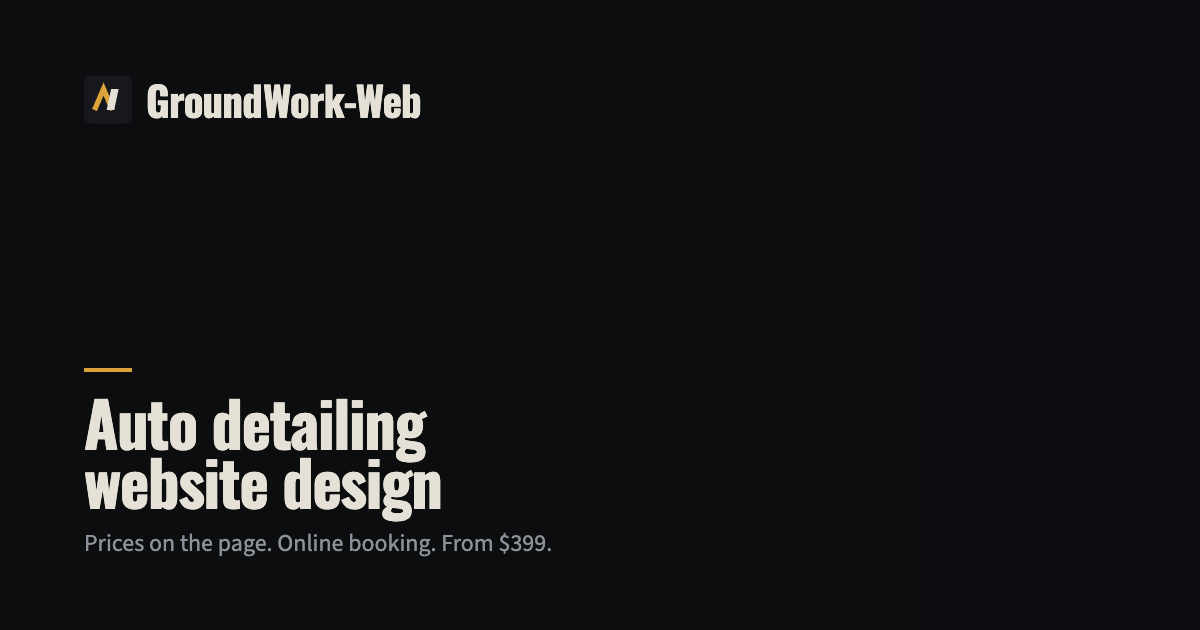
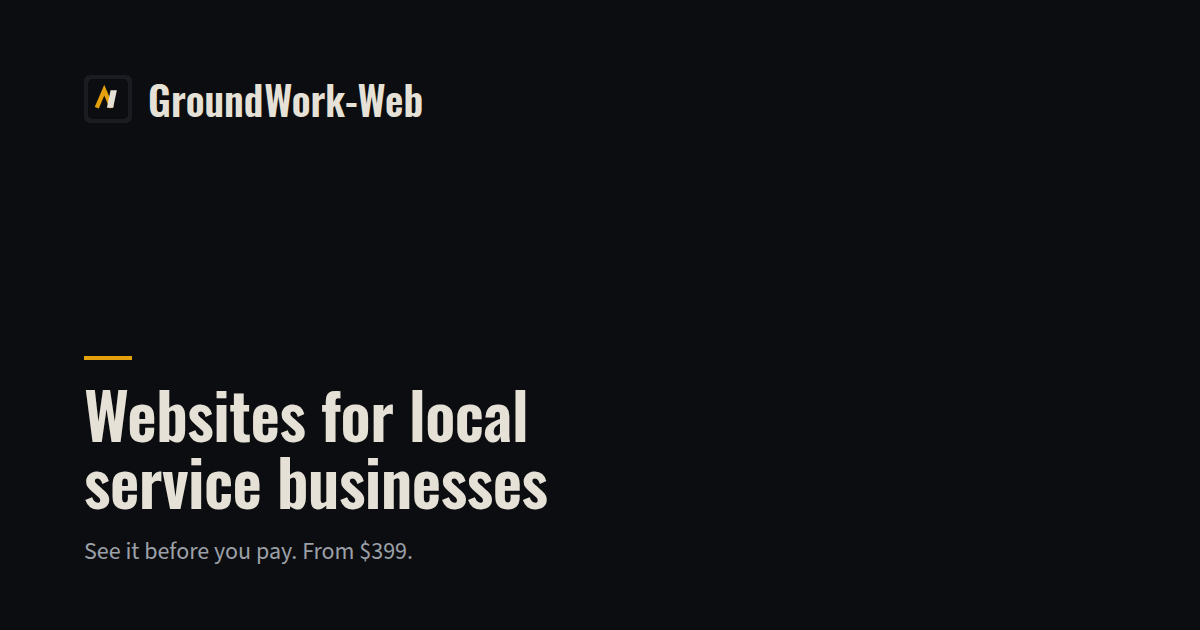
Broad social preview image and alt text for the main site
og.png said "Auto detailing website design"; it now reads "Websites for
local service businesses / See it before you pay. From $399." in the same
type and colors, and the og:image:alt on the ten main-host pages matches.

Claude-Session: https://claude.ai/code/session_01NHSg1PVT6B4hNMFgMoFF6L

Changed region(s): [[0.0617, 0.5429, 0.4625, 0.9048], [0.1233, 0.1206, 0.37, 0.2111], [0.0617, 0.1206, 0.0925, 0.181]]

diff --git a/public/before-you-pay/index.html b/public/before-you-pay/index.html
@@ -23,7 +23,7 @@
 <meta property="og:image" content="https://groundwork-web.com/assets/og.png">
 <meta property="og:image:width" content="1200">
 <meta property="og:image:height" content="630">
-<meta property="og:image:alt" content="GroundWork-Web: websites that get detailers booked">
+<meta property="og:image:alt" content="GroundWork-Web: websites for local service businesses. See it before you pay, from $399.">
 <meta name="twitter:card" content="summary_large_image">
 <meta name="twitter:title" content="See Your Site Before the Monthly Starts | GroundWork-Web">
 <meta name="twitter:description" content="Pay $99, see a private preview, and approve before anything goes live. Don't want it? The $99 comes back. The $300 and the monthly plan start when you approve.">

diff --git a/public/demos/index.html b/public/demos/index.html
@@ -23,7 +23,7 @@
 <meta property="og:image" content="https://groundwork-web.com/assets/og.png">
 <meta property="og:image:width" content="1200">
 <meta property="og:image:height" content="630">
-<meta property="og:image:alt" content="GroundWork-Web: websites that get detailers booked">
+<meta property="og:image:alt" content="GroundWork-Web: websites for local service businesses. See it before you pay, from $399.">
 <meta name="twitter:card" content="summary_large_image">
 <meta name="twitter:title" content="Auto Detailing Website Examples | GroundWork-Web">
 <meta name="twitter:description" content="Four working demo sites for detailers: a ceramic shop, a mobile detailer, a before-and-after paint slider, and a package builder. Fictional shops, real sites.">

diff --git a/public/audit/index.html b/public/audit/index.html
@@ -23,7 +23,7 @@
 <meta property="og:image" content="https://groundwork-web.com/assets/og.png">
 <meta property="og:image:width" content="1200">
 <meta property="og:image:height" content="630">
-<meta property="og:image:alt" content="GroundWork-Web: websites that get detailers booked">
+<meta property="og:image:alt" content="GroundWork-Web: websites for local service businesses. See it before you pay, from $399.">
 <meta name="twitter:card" content="summary_large_image">
 <meta name="twitter:title" content="Free Detailing Website Audit, 15 Minutes | GroundWork-Web">
 <meta name="twitter:description" content="Book a free 15-minute audit. We pull up your Google listing, socials, and site, and tell you plainly what is costing you bookings. No pitch deck.">

diff --git a/public/guides/get-found-on-google/index.html b/public/guides/get-found-on-google/index.html
@@ -23,7 +23,7 @@
 <meta property="og:image" content="https://groundwork-web.com/assets/og.png">
 <meta property="og:image:width" content="1200">
 <meta property="og:image:height" content="630">
-<meta property="og:image:alt" content="GroundWork-Web: websites that get detailers booked">
+<meta property="og:image:alt" content="GroundWork-Web: websites for local service businesses. See it before you pay, from $399.">
 <meta name="twitter:card" content="summary_large_image">
 <meta name="twitter:title" content="How Detailers Show Up for Detailing Near Me | GroundWork-Web">
 <meta name="twitter:description" content="A detailer's checklist for ranking on Google: Business Profile setup, the pages your site needs, prices, photos, reviews and schema. No fluff.">

diff --git a/public/pricing/index.html b/public/pricing/index.html
@@ -23,7 +23,7 @@
 <meta property="og:image" content="https://groundwork-web.com/assets/og.png">
 <meta property="og:image:width" content="1200">
 <meta property="og:image:height" content="630">
-<meta property="og:image:alt" content="GroundWork-Web: websites that get detailers booked">
+<meta property="og:image:alt" content="GroundWork-Web: websites for local service businesses. See it before you pay, from $399.">
 <meta name="twitter:card" content="summary_large_image">
 <meta name="twitter:title" content="What a Website Costs | GroundWork-Web">
 <meta name="twitter:description" content="What a website costs: $99 today, $300 when you approve, $399 total. Then $99 a month to keep it up, or $199 if we also update it. Deer Park, Texas.">

diff --git a/public/privacy/index.html b/public/privacy/index.html
@@ -23,7 +23,7 @@
 <meta property="og:image" content="https://groundwork-web.com/assets/og.png">
 <meta property="og:image:width" content="1200">
 <meta property="og:image:height" content="630">
-<meta property="og:image:alt" content="GroundWork-Web: websites that get detailers booked">
+<meta property="og:image:alt" content="GroundWork-Web: websites for local service businesses. See it before you pay, from $399.">
 <meta name="twitter:card" content="summary_large_image">
 <meta name="twitter:title" content="Privacy | GroundWork-Web">
 <meta name="twitter:description" content="What GroundWork-Web collects on this site, why, and how to opt out. Plain English, no cookies, nothing stored in your browser, no third-party trackers.">

diff --git a/public/start/index.html b/public/start/index.html
@@ -24,7 +24,7 @@
 <meta property="og:image" content="https://groundwork-web.com/assets/og.png">
 <meta property="og:image:width" content="1200">
 <meta property="og:image:height" content="630">
-<meta property="og:image:alt" content="GroundWork-Web: websites that get detailers booked">
+<meta property="og:image:alt" content="GroundWork-Web: websites for local service businesses. See it before you pay, from $399.">
 <meta name="twitter:card" content="summary_large_image">
 <meta name="twitter:title" content="Start Your Detailing Website for $99 | GroundWork-Web">
 <meta name="twitter:description" content="Tell us about your shop, pick Host or Grow, then a secure Stripe checkout for $99. We start this week.">

diff --git a/public/offer/index.html b/public/offer/index.html
@@ -23,7 +23,7 @@
 <meta property="og:image" content="https://groundwork-web.com/assets/og.png">
 <meta property="og:image:width" content="1200">
 <meta property="og:image:height" content="630">
-<meta property="og:image:alt" content="GroundWork-Web: websites that get detailers booked">
+<meta property="og:image:alt" content="GroundWork-Web: websites for local service businesses. See it before you pay, from $399.">
 <meta name="twitter:card" content="summary_large_image">
 <meta name="twitter:title" content="The Detailing Website Offer | GroundWork-Web">
 <meta name="twitter:description" content="A detailing website with prices and booking. $99 today, $300 when you approve, then $99 or $199 a month.">

diff --git a/public/404.html b/public/404.html
@@ -24,7 +24,7 @@
 <meta property="og:image" content="https://groundwork-web.com/assets/og.png">
 <meta property="og:image:width" content="1200">
 <meta property="og:image:height" content="630">
-<meta property="og:image:alt" content="GroundWork-Web: websites that get detailers booked">
+<meta property="og:image:alt" content="GroundWork-Web: websites for local service businesses. See it before you pay, from $399.">
 <meta name="twitter:card" content="summary_large_image">
 <meta name="twitter:title" content="Page not found | GroundWork-Web">
 <meta name="twitter:description" content="That page is not here. Pages that are: home, pricing, demos, and the free audit.">

diff --git a/public/thanks/index.html b/public/thanks/index.html
@@ -24,7 +24,7 @@
 <meta property="og:image" content="https://groundwork-web.com/assets/og.png">
 <meta property="og:image:width" content="1200">
 <meta property="og:image:height" content="630">
-<meta property="og:image:alt" content="GroundWork-Web: websites that get detailers booked">
+<meta property="og:image:alt" content="GroundWork-Web: websites for local service businesses. See it before you pay, from $399.">
 <meta name="twitter:card" content="summary_large_image">
 <meta name="twitter:title" content="Got It | GroundWork-Web">
 <meta name="twitter:description" content="Thanks. Here is what happens next with your detailing website or audit.">
